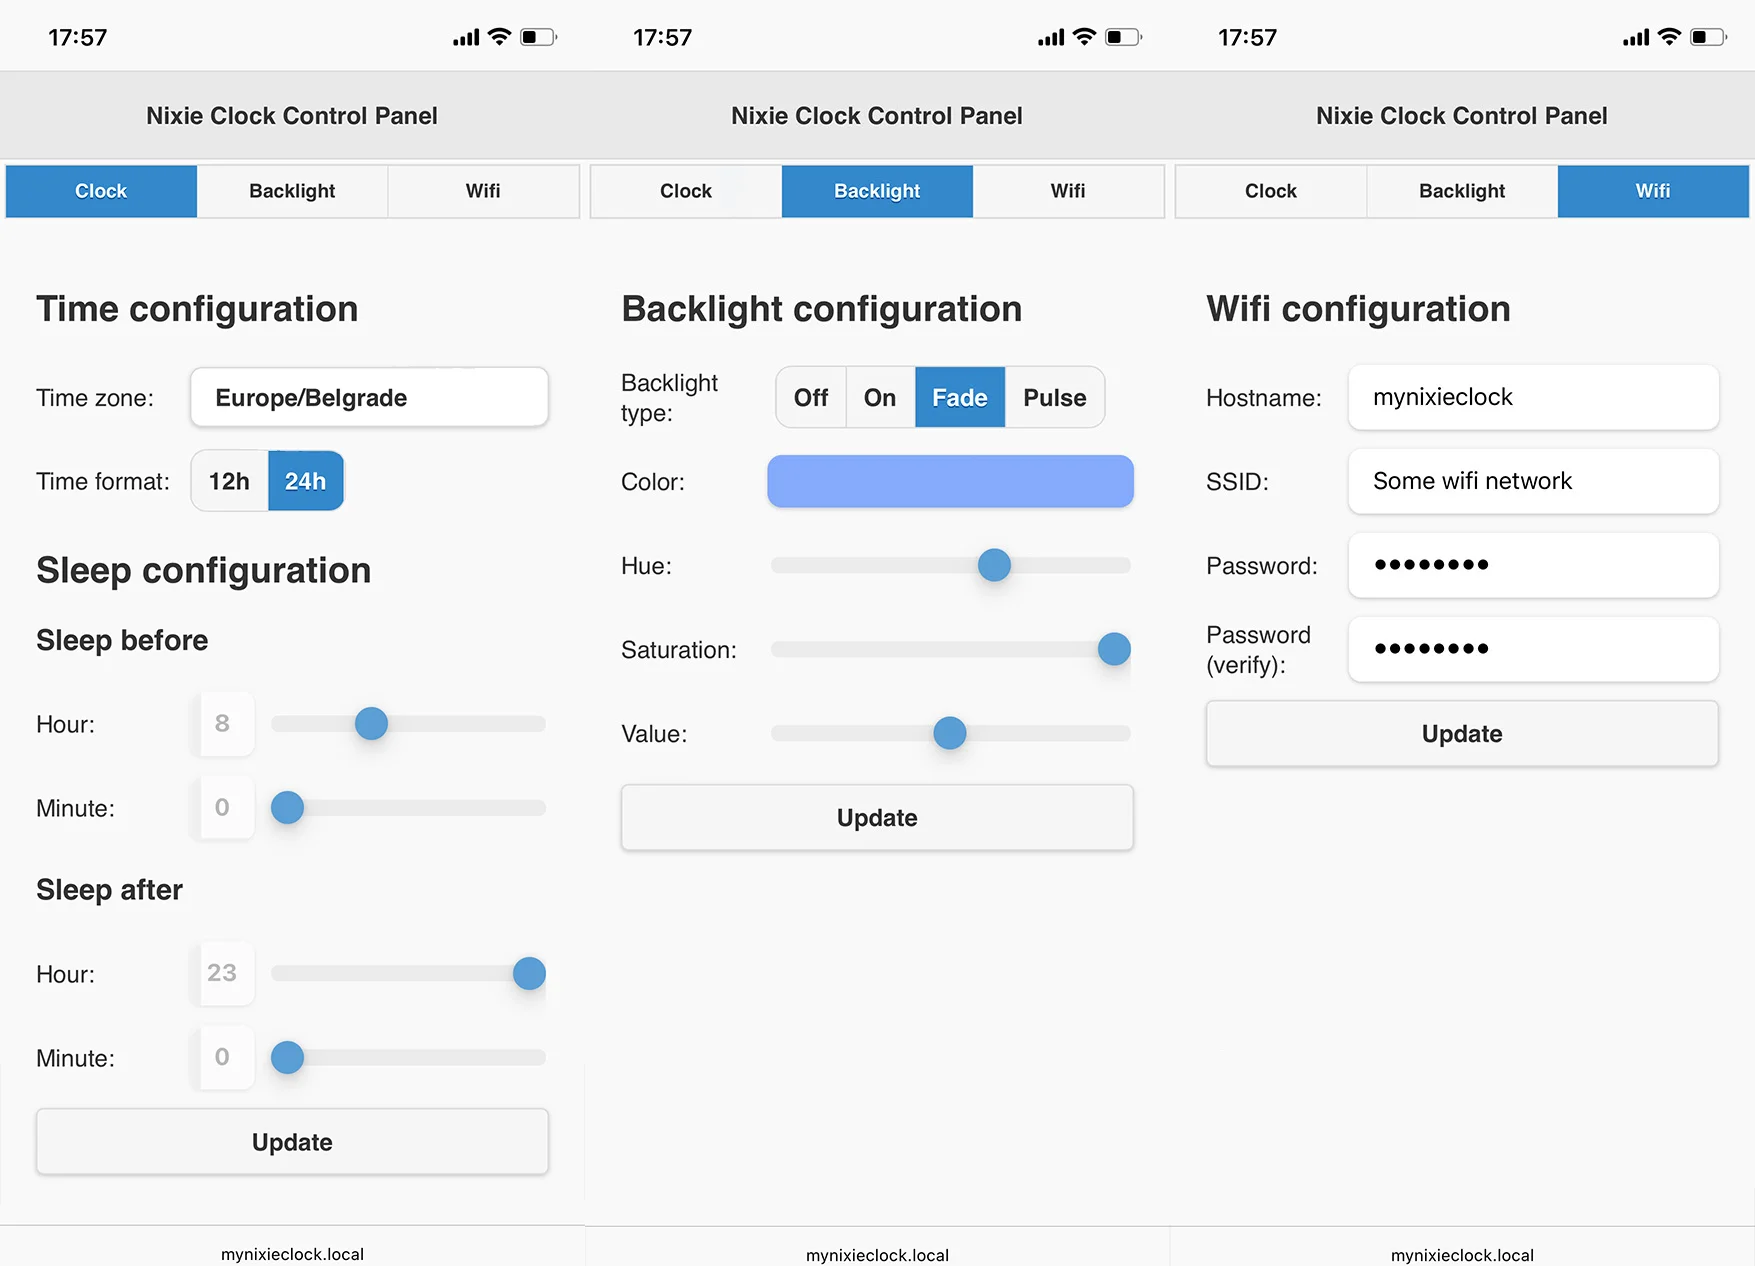
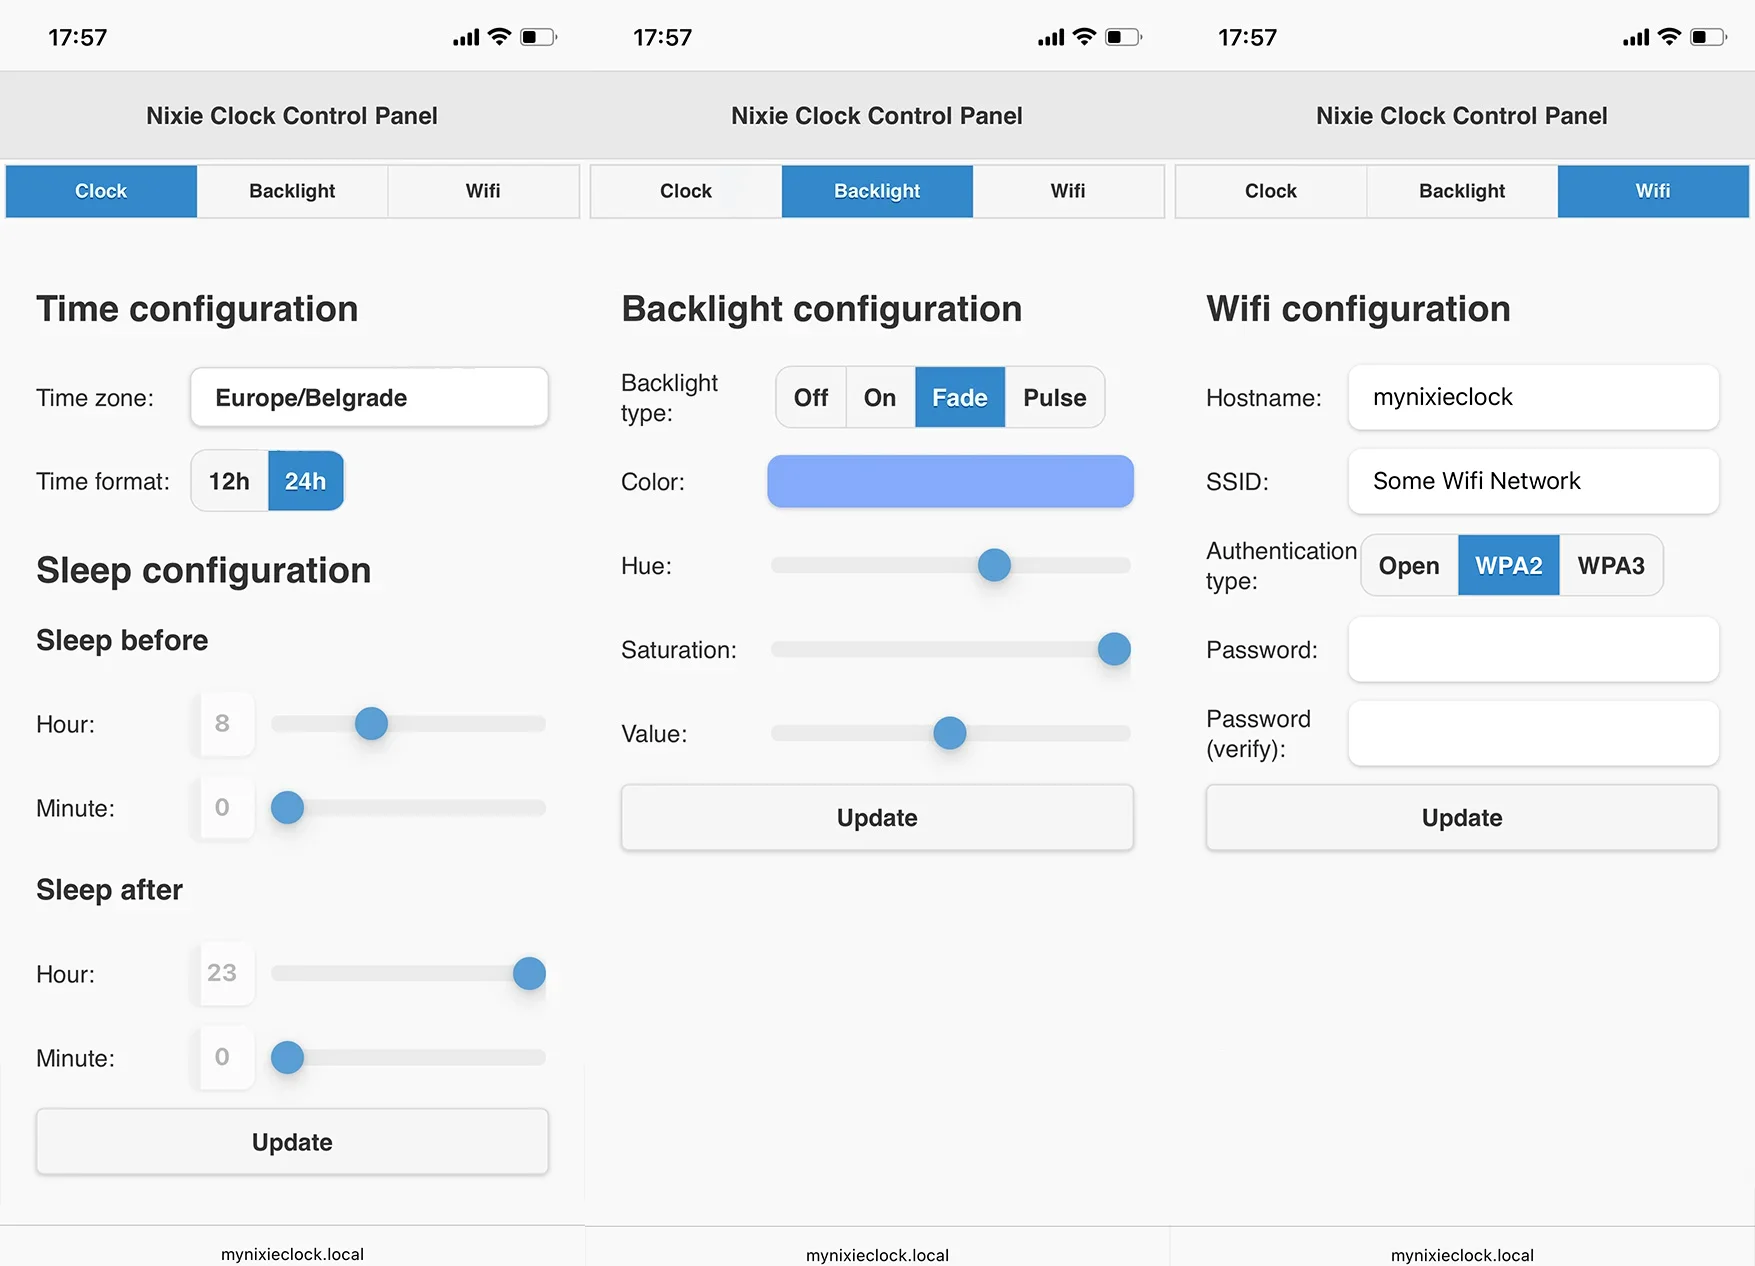
Update README with REST API doc and new front-end conaining wifi changes

diff --git a/README.md b/README.md
@@ -45,10 +45,10 @@ This move provides:
 | /api/v1/led/led_info | POST | {<br>&nbsp;&nbsp;&nbsp;&nbsp;“R”: <0-255>,<br>&nbsp;&nbsp;&nbsp;&nbsp;“G”: <0-255>,<br>&nbsp;&nbsp;&nbsp;&nbsp;“B”: <0-255>,<br>&nbsp;&nbsp;&nbsp;&nbsp;“state”: <0-2><br>} | Set color and state of the backlight (RGB LED). |
 | /api/v1/clock/sleep_info | GET | {<br>&nbsp;&nbsp;&nbsp;&nbsp; “sleep_before”: \<value>,<br>&nbsp;&nbsp;&nbsp;&nbsp; “sleep_after”: \<value><br>} | Get sleep mode configuration. The time before and after (in minutes) the backlight will be turned off. |
 | /api/v1/clock/sleep_info | POST | {<br>&nbsp;&nbsp;&nbsp;&nbsp; “sleep_before”: \<value>,<br>&nbsp;&nbsp;&nbsp;&nbsp; “sleep_after”: \<value><br>} | Set sleep mode configuration. |
-| /api/v1/clock/time_info | GET | {<br>&nbsp;&nbsp;&nbsp;&nbsp;"tz_zone": "\<Geographic zone>",<br>&nbsp;&nbsp;&nbsp;&nbsp;“tz_offset”: “\<Proleptic TZ>"<br>} | Get time zone configuration |
-| /api/v1/clock/time_info | POST | {<br>&nbsp;&nbsp;&nbsp;&nbsp;"tz_zone": "\<Geographic zone>",<br>&nbsp;&nbsp;&nbsp;&nbsp;“tz_offset”: “\<Proleptic TZ>"<br>} | Set time zone configuration |
-| /api/v1/wifi/wifi_info | GET | {<br>&nbsp;&nbsp;&nbsp;&nbsp;"hostname": "\<HOSTNAME>",<br>&nbsp;&nbsp;&nbsp;&nbsp;“SSID”: “\<Wifi SSID>”,&nbsp;&nbsp;&nbsp;&nbsp; <br>&nbsp;&nbsp;&nbsp;&nbsp;“password”: “\<base64 encoded password>”<br>} | Get wifi configuration. |
-| /api/v1/wifi/wifi_info | POST | {<br>&nbsp;&nbsp;&nbsp;&nbsp;"hostname": "\<HOSTNAME>",<br>&nbsp;&nbsp;&nbsp;&nbsp;“SSID”: “\<Wifi SSID>”,&nbsp;&nbsp;&nbsp;&nbsp; <br>&nbsp;&nbsp;&nbsp;&nbsp;“password”: “\<base64 encoded password>”<br>} | Set wifi configuration. | Set wifi configuration. |
+| /api/v1/clock/time_info | GET | {<br>&nbsp;&nbsp;&nbsp;&nbsp;"tz_zone": "\<Geographic zone>",<br>&nbsp;&nbsp;&nbsp;&nbsp;“tz_offset”: “\<Proleptic TZ>",<br>&nbsp;&nbsp;&nbsp;&nbsp;"time_format": \<"12h" \| "24h"><br>} | Get time zone configuration |
+| /api/v1/clock/time_info | POST | {<br>&nbsp;&nbsp;&nbsp;&nbsp;"tz_zone": "\<Geographic zone>",<br>&nbsp;&nbsp;&nbsp;&nbsp;“tz_offset”: “\<Proleptic TZ>",<br>&nbsp;&nbsp;&nbsp;&nbsp;"time_format": \<"12h" \| "24h"><br>} | Set time zone configuration |
+| /api/v1/wifi/wifi_info | GET | {<br>&nbsp;&nbsp;&nbsp;&nbsp;"hostname": "\<HOSTNAME>",<br>&nbsp;&nbsp;&nbsp;&nbsp;“SSID”: “\<Wifi SSID>”,<br>&nbsp;&nbsp;&nbsp;&nbsp;"auth_type": \<"open" \| "wpa2" \| "wpa3">,<br>&nbsp;&nbsp;&nbsp;&nbsp;“password”: “\<base64 encoded password>”<br>} | Get wifi configuration. |
+| /api/v1/wifi/wifi_info | POST | {<br>&nbsp;&nbsp;&nbsp;&nbsp;"hostname": "\<HOSTNAME>",<br>&nbsp;&nbsp;&nbsp;&nbsp;“SSID”: “\<Wifi SSID>”,<br>&nbsp;&nbsp;&nbsp;&nbsp;"auth_type": \<"open" \| "wpa2" \| "wpa3">,<br>&nbsp;&nbsp;&nbsp;&nbsp;“password”: “\<base64 encoded password>”<br>} | Set wifi configuration. | Set wifi configuration. |
 
 ### Front-end layout & design
 
